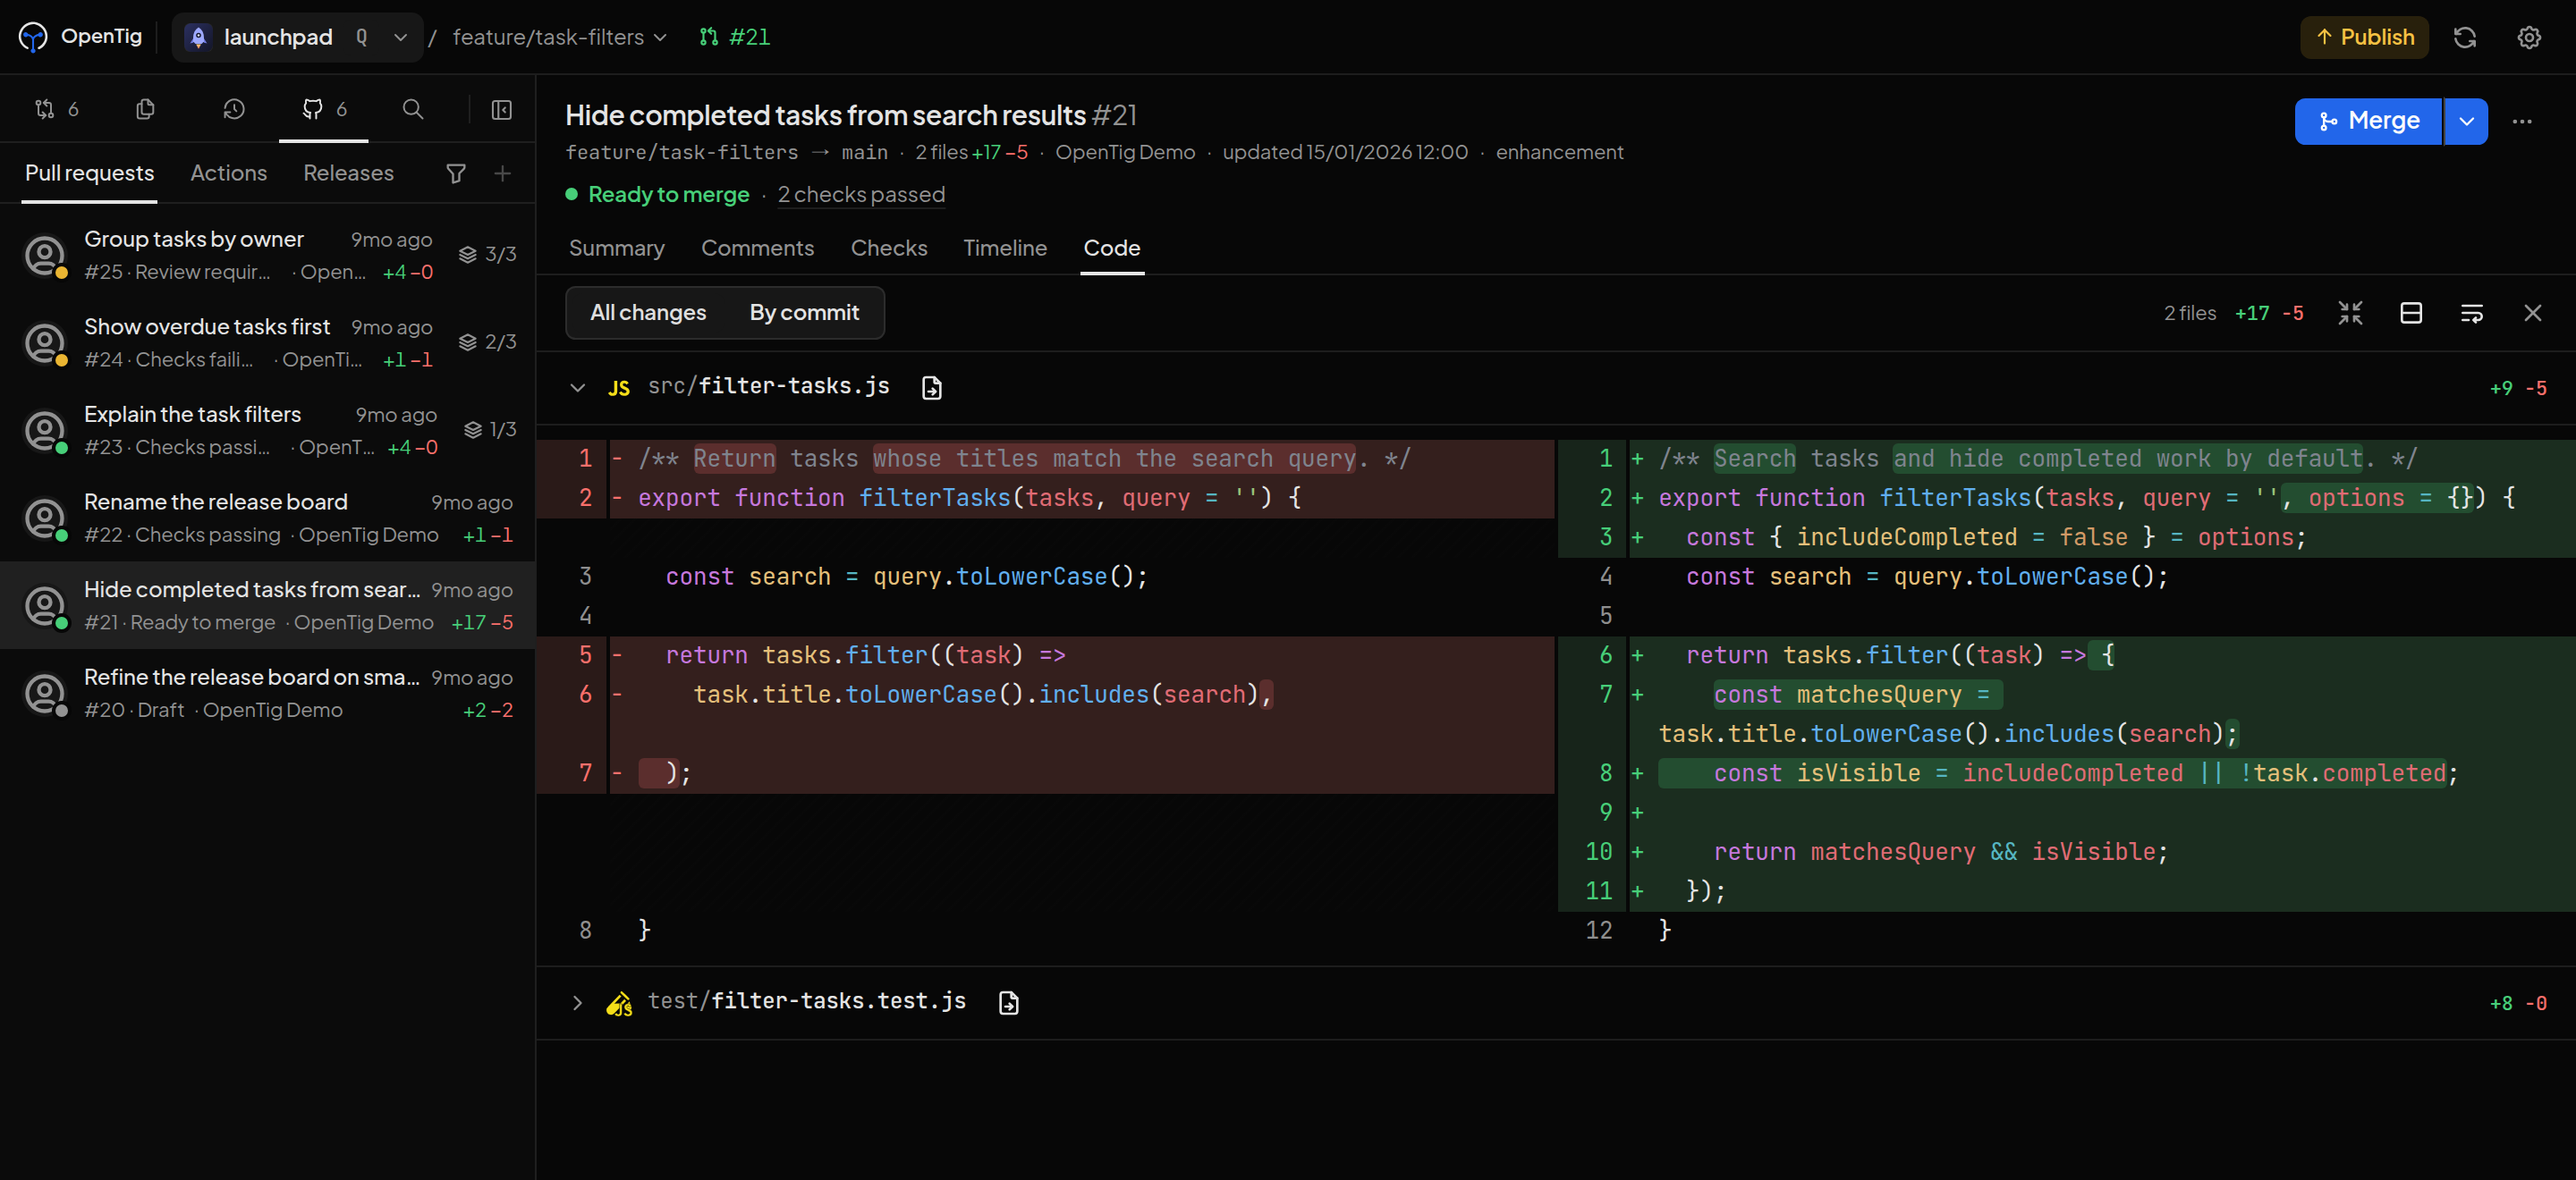
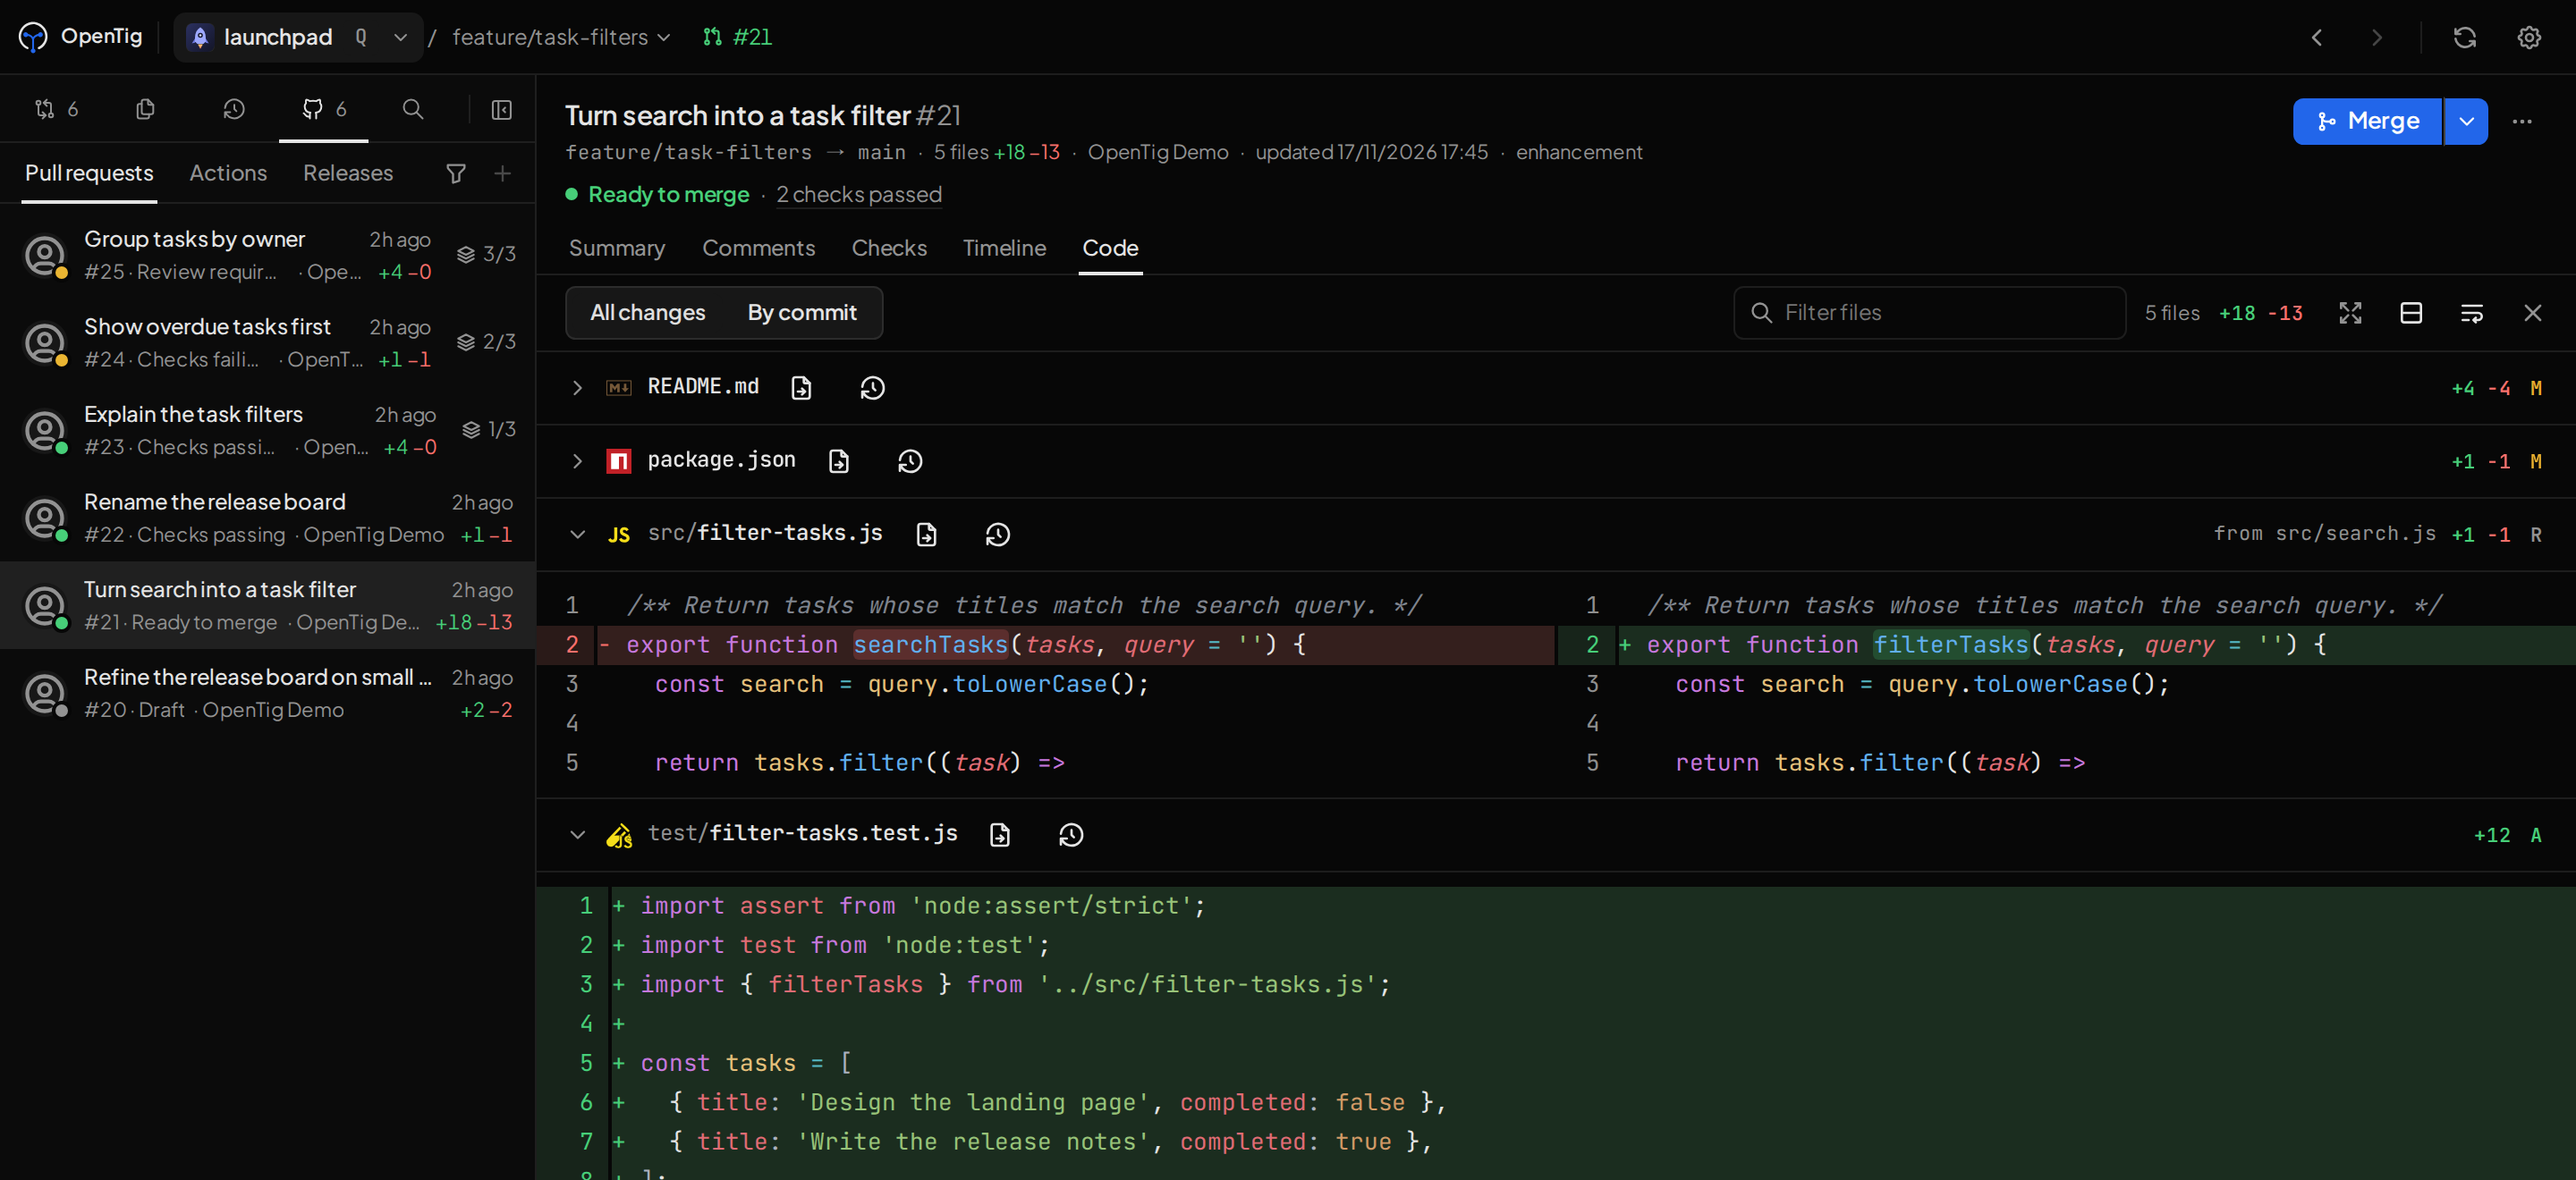
docs(readme): recapture the workspace screenshots and the social card from today's demo
The README's screenshot, the CLI package page's, and the social card built
from them showed the interface before the Back and Forward arrows, a
Publish button the sample's published branch no longer has, a pull request
#21 the sample has since replaced, and file headers without status letters
or the file history button.

The desktop capture now shows PR #21's Code tab read file by file in split
view, with the renamed src/filter-tasks.js and the new test unfolded and
the file filter beside them; the phone capture shows the same pull request
ready to merge. The card is exported again from its source, 2400 x 1260
and 266 KB, and the alternative texts describe what the images now show.

diff --git a/website/design/social-card.html b/website/design/social-card.html
@@ -65,7 +65,7 @@
         <span class="domain">opentig.com</span>
       </header>
       <h1>Your Git workspace,<br /><em>on desktop and phone.</em></h1>
-      <img class="workspace" src="../../docs/images/workspace.png" width="2880" height="1320" alt="OpenTig showing an open pull request and its side-by-side JavaScript diff in the Launchpad sample repository" />
+      <img class="workspace" src="../../docs/images/workspace.png" width="2880" height="1320" alt="OpenTig showing an open pull request file by file, with side-by-side diffs of a renamed JavaScript file and its new test, in the Launchpad sample repository" />
       <div class="phone">
         <img src="../../docs/images/workspace-phone.png" width="780" height="1632" alt="The same pull request on a phone, ready to merge" />
       </div>

diff --git a/docs/website.md b/docs/website.md
@@ -261,7 +261,7 @@ Page titles, descriptions, canonical URLs, and Open Graph and Twitter card metad
 <details>
 <summary>Update the social image</summary>
 
-The editable card source is `website/design/social-card.html`, outside the published site. Under the headline "Your Git workspace, on desktop and phone.", it combines two real product screenshots with the local logo and Geist font: `docs/images/workspace.png` and, in a phone frame, `docs/images/workspace-phone.png`. Both use normal OpenTig branding and the Launchpad sample repository in the interactive demo. The desktop capture shows the GitHub pull-request list, an open PR, and its side-by-side diff; the phone capture shows the same PR's summary with its **Merge** button. The phone frame has thin bezels. To update it, capture the desktop demo at 1440 × 660 CSS pixels and the phone demo at 390 × 816 CSS pixels (the frame's screen ratio, so nothing is cropped), both at a device scale factor of 2. Then serve the repository root on loopback, open `/website/design/social-card.html` in a browser at exactly 1200 × 630 CSS pixels with a device scale factor of 2, wait for the font and images to load, and export the viewport as a JPEG at quality 85 to `website/public/opentig-social.jpg`. Check that it is 2400 × 1260 pixels and under about 300 KB. Keep the screenshot faithful to the application and inspect the exported image before deployment. Source captures and temporary tooling stay untracked. The earlier `/og-image.png` and `/opentig-social.png` remain available for previously cached previews; the latter holds the same card at 1200 × 630.
+The editable card source is `website/design/social-card.html`, outside the published site. Under the headline "Your Git workspace, on desktop and phone.", it combines two real product screenshots with the local logo and Geist font: `docs/images/workspace.png` and, in a phone frame, `docs/images/workspace-phone.png`. Both use normal OpenTig branding and the Launchpad sample repository in the interactive demo. The desktop capture shows the GitHub pull-request list and PR #21's **Code** tab in split view, with `src/filter-tasks.js` and `test/filter-tasks.test.js` unfolded; the phone capture shows the same PR's summary with its **Merge** button. The phone frame has thin bezels. To update it, capture the desktop demo at 1440 × 660 CSS pixels and the phone demo at 390 × 816 CSS pixels (the frame's screen ratio, so nothing is cropped), both at a device scale factor of 2. Then serve the repository root on loopback, open `/website/design/social-card.html` in a browser at exactly 1200 × 630 CSS pixels with a device scale factor of 2, wait for the font and images to load, and export the viewport as a JPEG at quality 85 to `website/public/opentig-social.jpg`. Check that it is 2400 × 1260 pixels and under about 300 KB. Keep the screenshot faithful to the application and inspect the exported image before deployment. Source captures and temporary tooling stay untracked. The earlier `/og-image.png` and `/opentig-social.png` remain available for previously cached previews; the latter holds an earlier version of the card at 1200 × 630.
 
 </details>
 

diff --git a/packages/server/README.md b/packages/server/README.md
@@ -6,7 +6,7 @@ Browse files, review diffs, make edits, and commit changes. Work with branches, 
 
 [Website](https://opentig.com/) · [Installation](https://opentig.com/docs/getting-started/#run-the-headless-cli) · [Documentation](https://opentig.com/docs/) · [Source](https://github.com/jorgefl8/opentig) · [Report a bug](https://github.com/jorgefl8/opentig/issues)
 
-![OpenTig reviewing an open pull request and its side-by-side JavaScript diff in the Launchpad sample repository](https://raw.githubusercontent.com/jorgefl8/opentig/main/docs/images/workspace.png)
+![OpenTig reviewing an open pull request file by file, with side-by-side diffs of a renamed JavaScript file and its new test, in the Launchpad sample repository](https://raw.githubusercontent.com/jorgefl8/opentig/main/docs/images/workspace.png)
 
 *OpenTig reviewing a sample pull request in the interactive demo.*
 

diff --git a/README.md b/README.md
@@ -10,7 +10,7 @@ Browse files, inspect diffs, edit, stage, and commit on your computer or a remot
 
 </div>
 
-![OpenTig reviewing an open pull request and its side-by-side JavaScript diff in the Launchpad sample repository](docs/images/workspace.png)
+![OpenTig reviewing an open pull request file by file, with side-by-side diffs of a renamed JavaScript file and its new test, in the Launchpad sample repository](docs/images/workspace.png)
 
 *OpenTig reviewing a sample pull request in the interactive demo.*
 
